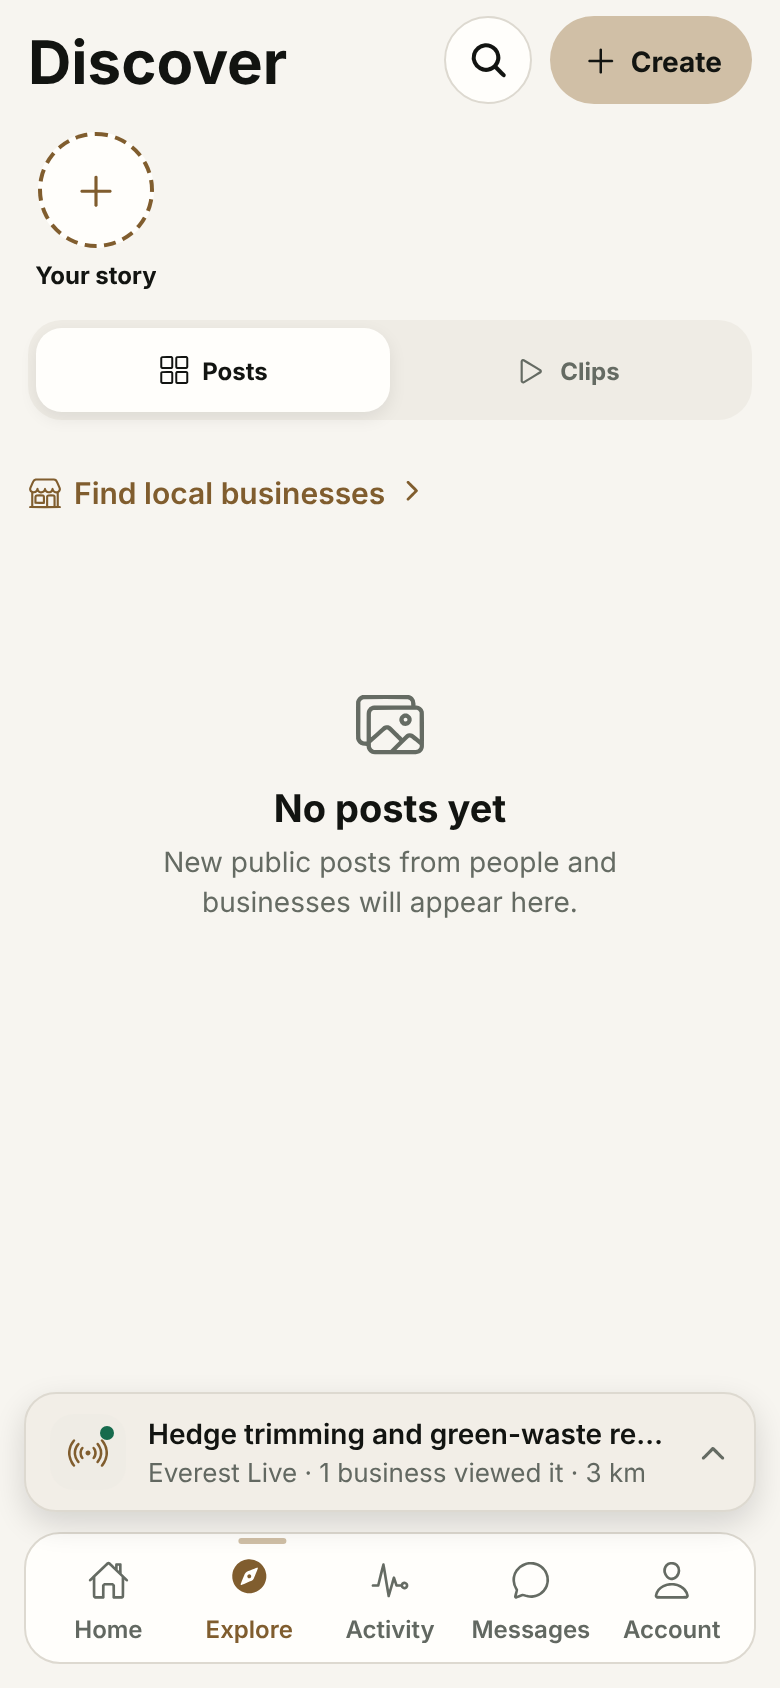
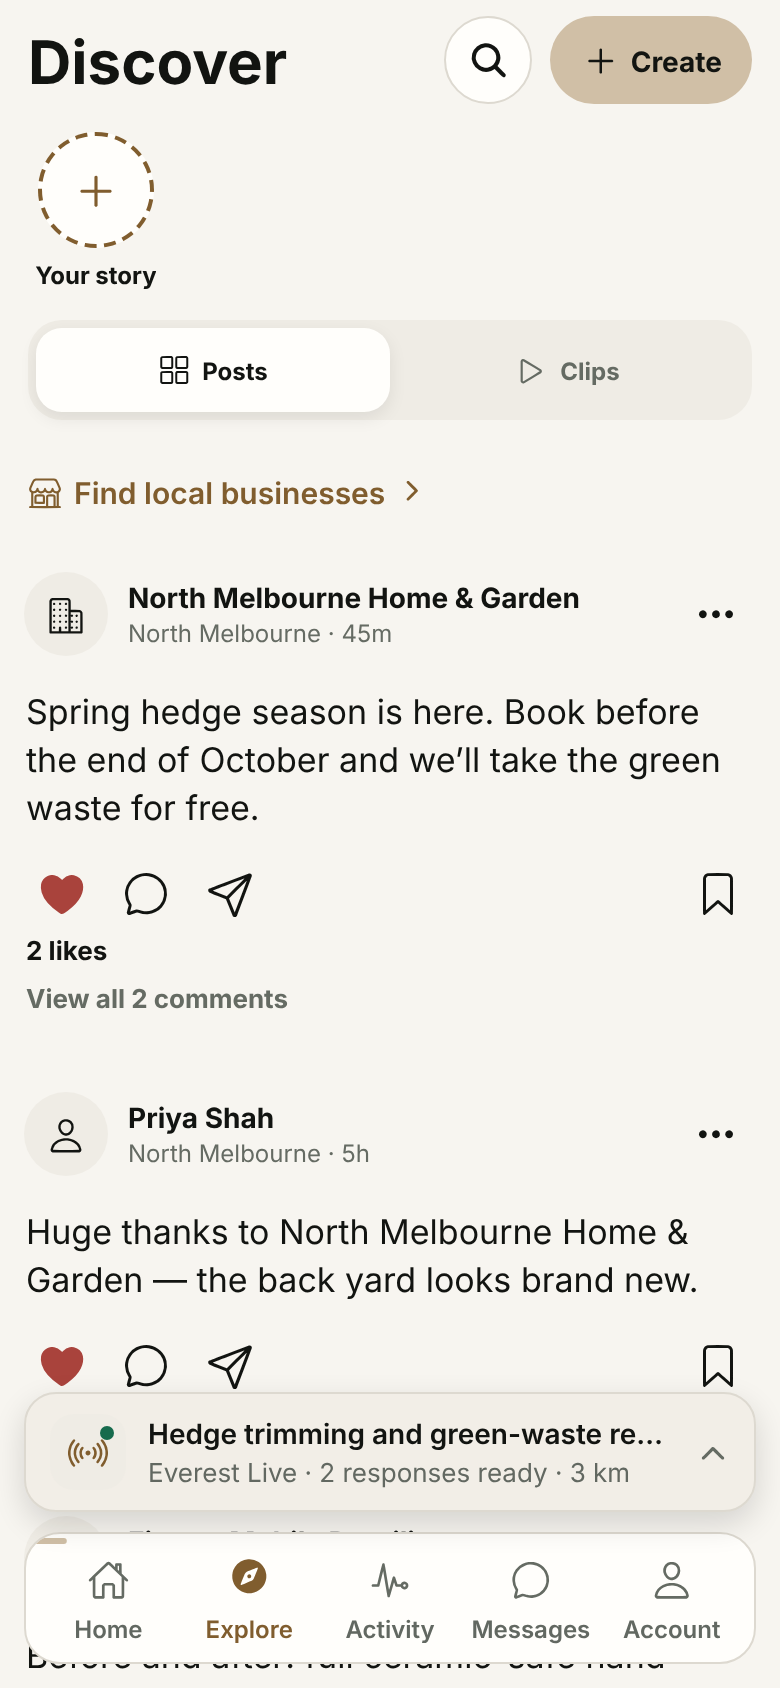
feat(social): label post actions, relative times, and text posts that read first
Like, comment, share, save and options had no accessible names. Post dates
printed as numeric locale dates; they now read 45m / 5h / 3d. Posts without
media showed the action bar first and repeated the author before the caption;
the caption now leads in larger type. Zero-like counts are hidden and
'View 1 comment' is grammatical. Adds discovery-feed fixtures for evidence.

Claude-Session: https://claude.ai/code/session_01Ej6Sk8ntTLCsqDi5cshq7J

diff --git a/app/social.tsx b/app/social.tsx
@@ -310,9 +310,9 @@ export function SocialScreen({sceneMode,active=true}:{sceneMode?:'POSTS'|'CLIPS'
      <Pressable style={{flex:1}} onPress={()=>router.push(item.business_id?('/business-profile?id='+item.business_id):('/public-user?id='+item.author_id))}>
       <View style={s.nameLine}><Text style={s.name}>{item.businesses?.name??item.profile?.display_name??'Everest member'}</Text>{item.is_promoted?<View style={s.promotedBadge}><Ionicons name="rocket" size={10} color={colors.accent}/><Text style={s.promotedText}>Promoted</Text></View>:null}</View>
       {item.collaborator_labels?.length?<Text numberOfLines={1} style={s.collab}>with {item.collaborator_labels.join(' · ')}</Text>:null}
-      <Text style={s.meta}>{item.location_label||'Everest Local'} · {new Date(item.created_at).toLocaleDateString()}</Text>
+      <Text style={s.meta}>{[item.location_label,commentTime(item.created_at)].filter(Boolean).join(' · ')}</Text>
      </Pressable>
-     <Pressable onPress={()=>setMenuPost(menuPost===item.id?null:item.id)} style={s.more}><Ionicons name="ellipsis-horizontal" size={21} color={colors.text}/></Pressable>
+     <Pressable accessibilityRole="button" accessibilityLabel="Post options" accessibilityState={{expanded:menuPost===item.id}} onPress={()=>setMenuPost(menuPost===item.id?null:item.id)} style={s.more}><Ionicons name="ellipsis-horizontal" size={21} color={colors.text}/></Pressable>
     </View>
     {menuPost===item.id?<View style={s.menu}>
       {item.author_id===userId?<Pressable onPress={()=>void toggleComments(item)} style={s.menuItem}><Ionicons name={item.comments_enabled?'chatbubble-outline':'chatbubble-ellipses-outline'} size={17} color={colors.text}/><Text style={s.menuText}>{item.comments_enabled?'Turn comments off':'Turn comments on'}</Text></Pressable>:null}
@@ -321,18 +321,19 @@ export function SocialScreen({sceneMode,active=true}:{sceneMode?:'POSTS'|'CLIPS'
     {item.media?.length?<View style={s.mediaWrap}>{item.media.slice(0,1).map((uri,index)=><PostMediaImage key={uri} postId={item.id} uri={uri} index={index} style={[s.media,{width:mediaWidth,height:Math.min(mediaWidth*1.05,650)}]}/>)}
       {item.media.length>1?<View style={s.mediaCount}><Text style={s.mediaCountText}>1/{item.media.length}</Text></View>:null}
     </View>:null}
+    {!item.media?.length&&item.caption?<Text style={s.textPost}>{item.caption}</Text>:null}
     {audibleTracks(item).length?<PostSoundPlayer tracks={audibleTracks(item)} photoDurationMs={item.photo_duration_ms} onOpenSound={track=>router.push(('/sound?id='+track.audioAssetId) as never)}/>:item.music?<View style={s.postMusic}><Ionicons name="musical-note" size={13} color={colors.accent}/><Text numberOfLines={1} style={s.postMusicText}>{item.music.title} — {item.music.artist}</Text></View>:null}
     <View style={s.actions}>
      <View style={s.leftActions}>
-      <Pressable onPress={()=>void like(item)} style={s.action}><Ionicons name={item.engagement.likedByMe?'heart':'heart-outline'} size={26} color={item.engagement.likedByMe?colors.danger:colors.text}/></Pressable>
-      <Pressable onPress={()=>void openComments(item)} style={s.action}><Ionicons name="chatbubble-outline" size={24} color={colors.text}/></Pressable>
-      <Pressable onPress={()=>void share(item)} style={s.action}><Ionicons name="paper-plane-outline" size={25} color={colors.text}/></Pressable>
+      <Pressable accessibilityRole="button" accessibilityLabel={item.engagement.likedByMe?'Unlike':'Like'} accessibilityState={{selected:item.engagement.likedByMe}} onPress={()=>void like(item)} style={s.action}><Ionicons name={item.engagement.likedByMe?'heart':'heart-outline'} size={26} color={item.engagement.likedByMe?colors.danger:colors.text}/></Pressable>
+      <Pressable accessibilityRole="button" accessibilityLabel="Comments" onPress={()=>void openComments(item)} style={s.action}><Ionicons name="chatbubble-outline" size={24} color={colors.text}/></Pressable>
+      <Pressable accessibilityRole="button" accessibilityLabel="Share" onPress={()=>void share(item)} style={s.action}><Ionicons name="paper-plane-outline" size={25} color={colors.text}/></Pressable>
      </View>
-     <Pressable onPress={()=>void save(item)} style={s.action}><Ionicons name={item.engagement.savedByMe?'bookmark':'bookmark-outline'} size={24} color={colors.text}/></Pressable>
+     <Pressable accessibilityRole="button" accessibilityLabel={item.engagement.savedByMe?'Remove from saved':'Save'} accessibilityState={{selected:item.engagement.savedByMe}} onPress={()=>void save(item)} style={s.action}><Ionicons name={item.engagement.savedByMe?'bookmark':'bookmark-outline'} size={24} color={colors.text}/></Pressable>
     </View>
-    <Text style={s.count}>{item.engagement.likeCount} {item.engagement.likeCount===1?'like':'likes'}</Text>
-    {item.caption?<Text style={s.caption}><Text style={s.name}>{item.businesses?.name??item.profile?.display_name??'Everest member'} </Text>{item.caption}</Text>:null}
-    {item.engagement.commentCount>0?<Pressable onPress={()=>void openComments(item)}><Text style={s.viewComments}>View all {item.engagement.commentCount} comments</Text></Pressable>:null}
+    {item.engagement.likeCount>0?<Text style={s.count}>{item.engagement.likeCount} {item.engagement.likeCount===1?'like':'likes'}</Text>:null}
+    {item.caption&&item.media?.length?<Text style={s.caption}><Text style={s.name}>{item.businesses?.name??item.profile?.display_name??'Everest member'} </Text>{item.caption}</Text>:null}
+    {item.engagement.commentCount>0?<Pressable onPress={()=>void openComments(item)}><Text style={s.viewComments}>{item.engagement.commentCount===1?'View 1 comment':`View all ${item.engagement.commentCount} comments`}</Text></Pressable>:null}
     {!item.comments_enabled?<Text style={s.commentsOff}>Comments are turned off</Text>:null}
     {item.verifiedWork?<View style={s.verified}><Ionicons name="checkmark-circle" size={15} color={colors.accent}/><Text style={s.verifiedText}>Verified Everest booking</Text></View>:null}
     {(item.service_id||item.product_id)?<View style={s.commerceRow}>
@@ -395,7 +396,7 @@ const styles=(c:ThemeColors)=>StyleSheet.create({
  authorRow:{flexDirection:'row',alignItems:'center',gap:10,padding:12},avatar:{width:42,height:42,borderRadius:21,backgroundColor:c.soft,alignItems:'center',justifyContent:'center',overflow:'hidden'},avatarImage:{width:42,height:42},nameLine:{flexDirection:'row',alignItems:'center',gap:7},name:{fontSize:14,fontWeight:'900',color:c.text,flexShrink:1},promotedBadge:{height:20,borderRadius:10,backgroundColor:c.soft,paddingHorizontal:7,flexDirection:'row',alignItems:'center',gap:3},promotedText:{fontSize:12,fontWeight:'900',color:c.accent},collab:{fontSize:12,fontWeight:'800',color:c.textSecondary,marginTop:1},meta:{fontSize:12,color:c.muted,marginTop:2},more:{width:40,height:40,alignItems:'center',justifyContent:'center'},
  menu:{marginHorizontal:12,marginBottom:10,borderWidth:1,borderColor:c.border,borderRadius:14,backgroundColor:c.canvas,overflow:'hidden'},menuItem:{minHeight:44,paddingHorizontal:13,flexDirection:'row',alignItems:'center',gap:9},menuText:{fontSize:13,fontWeight:'800',color:c.text},
  mediaWrap:{position:'relative',alignItems:'center',backgroundColor:c.soft},media:{maxWidth:'100%',backgroundColor:c.soft},mediaCount:{position:'absolute',right:12,top:12,borderRadius:14,backgroundColor:'rgba(0,0,0,.62)',paddingHorizontal:9,paddingVertical:5},mediaCountText:{color:'#fff',fontSize:11,fontWeight:'900'},postMusic:{marginHorizontal:13,marginTop:9,minHeight:30,borderRadius:15,backgroundColor:c.soft,paddingHorizontal:10,flexDirection:'row',alignItems:'center',gap:6},postMusicText:{flex:1,fontSize:12,fontWeight:'800',color:c.text},
- actions:{paddingHorizontal:10,paddingTop:9,flexDirection:'row',alignItems:'center',justifyContent:'space-between'},leftActions:{flexDirection:'row',alignItems:'center'},action:{width:42,height:40,alignItems:'center',justifyContent:'center'},count:{paddingHorizontal:13,fontSize:13,fontWeight:'900',color:c.text},caption:{paddingHorizontal:13,paddingTop:7,fontSize:14,lineHeight:20,color:c.text},viewComments:{paddingHorizontal:13,paddingTop:8,fontSize:13,color:c.muted,fontWeight:'700'},commentsOff:{paddingHorizontal:13,paddingTop:7,fontSize:12,color:c.muted},
+ actions:{paddingHorizontal:10,paddingTop:9,flexDirection:'row',alignItems:'center',justifyContent:'space-between'},leftActions:{flexDirection:'row',alignItems:'center'},action:{width:42,height:40,alignItems:'center',justifyContent:'center'},count:{paddingHorizontal:13,fontSize:13,fontWeight:'900',color:c.text},caption:{paddingHorizontal:13,paddingTop:7,fontSize:14,lineHeight:20,color:c.text},textPost:{paddingHorizontal:13,paddingTop:4,paddingBottom:2,fontSize:17,lineHeight:24,color:c.text},viewComments:{paddingHorizontal:13,paddingTop:8,fontSize:13,color:c.muted,fontWeight:'700'},commentsOff:{paddingHorizontal:13,paddingTop:7,fontSize:12,color:c.muted},
  verified:{marginHorizontal:13,marginTop:9,flexDirection:'row',alignItems:'center',gap:5},verifiedText:{fontSize:12,fontWeight:'900',color:c.accent},commerceRow:{flexDirection:'row',gap:8,paddingHorizontal:13,paddingTop:11},commerce:{borderRadius:18,backgroundColor:c.brand,paddingHorizontal:13,paddingVertical:9},commerceText:{fontSize:12,fontWeight:'900',color:c.onBrand},
  empty:{padding:70,alignItems:'center'},emptyTitle:{fontSize:19,fontWeight:'900',color:c.text,marginTop:12},emptyCopy:{fontSize:14,lineHeight:20,color:c.muted,textAlign:'center',marginTop:5},emptyCta:{marginTop:16,height:40,borderRadius:20,backgroundColor:c.brand,paddingHorizontal:16,alignItems:'center',justifyContent:'center'},emptyCtaText:{fontSize:12,fontWeight:'900',color:c.onBrand},
  clipCard:{backgroundColor:'#000',marginBottom:10,overflow:'hidden'},clipMedia:{position:'relative',width:'100%',backgroundColor:'#000'},clipMissing:{flex:1,alignItems:'center',justifyContent:'center',gap:8},clipMissingText:{fontSize:12,fontWeight:'800',color:'#fff'},clipTop:{position:'absolute',left:12,right:12,top:12,flexDirection:'row',justifyContent:'space-between',alignItems:'center'},clipLocal:{maxWidth:'70%',height:30,borderRadius:15,backgroundColor:'rgba(0,0,0,.42)',paddingHorizontal:9,flexDirection:'row',alignItems:'center',gap:4},clipLocalText:{fontSize:12,fontWeight:'800',color:'#fff'},clipPromoted:{height:28,borderRadius:14,backgroundColor:'rgba(0,0,0,.52)',paddingHorizontal:9,alignItems:'center',justifyContent:'center'},clipPromotedText:{fontSize:12,fontWeight:'900',color:'#fff'},clipSide:{position:'absolute',right:10,bottom:95,gap:10,alignItems:'center'},clipAction:{width:46,minHeight:48,alignItems:'center',justifyContent:'center'},clipActionText:{fontSize:14,fontWeight:'900',color:'#fff',marginTop:2},clipBottom:{position:'absolute',left:14,right:68,bottom:16},clipAuthor:{flexDirection:'row',alignItems:'center',gap:8},clipAvatar:{width:34,height:34,borderRadius:17,borderWidth:1,borderColor:'rgba(255,255,255,.55)',backgroundColor:'rgba(0,0,0,.35)',alignItems:'center',justifyContent:'center',overflow:'hidden'},clipAvatarImage:{width:34,height:34,borderRadius:17},clipName:{maxWidth:'80%',fontSize:13,fontWeight:'900',color:'#fff'},clipCaption:{fontSize:12,lineHeight:18,color:'#fff',marginTop:8,textShadowColor:'rgba(0,0,0,.45)',textShadowRadius:4},clipMusic:{marginTop:7,flexDirection:'row',alignItems:'center',gap:5},clipMusicText:{flex:1,fontSize:12,fontWeight:'800',color:'#fff'},clipCommerce:{flexDirection:'row',gap:7,marginTop:9},clipCommerceButton:{height:34,borderRadius:17,backgroundColor:'rgba(255,255,255,.92)',paddingHorizontal:12,alignItems:'center',justifyContent:'center'},clipCommerceText:{fontSize:12,fontWeight:'900',color:'#111'},
